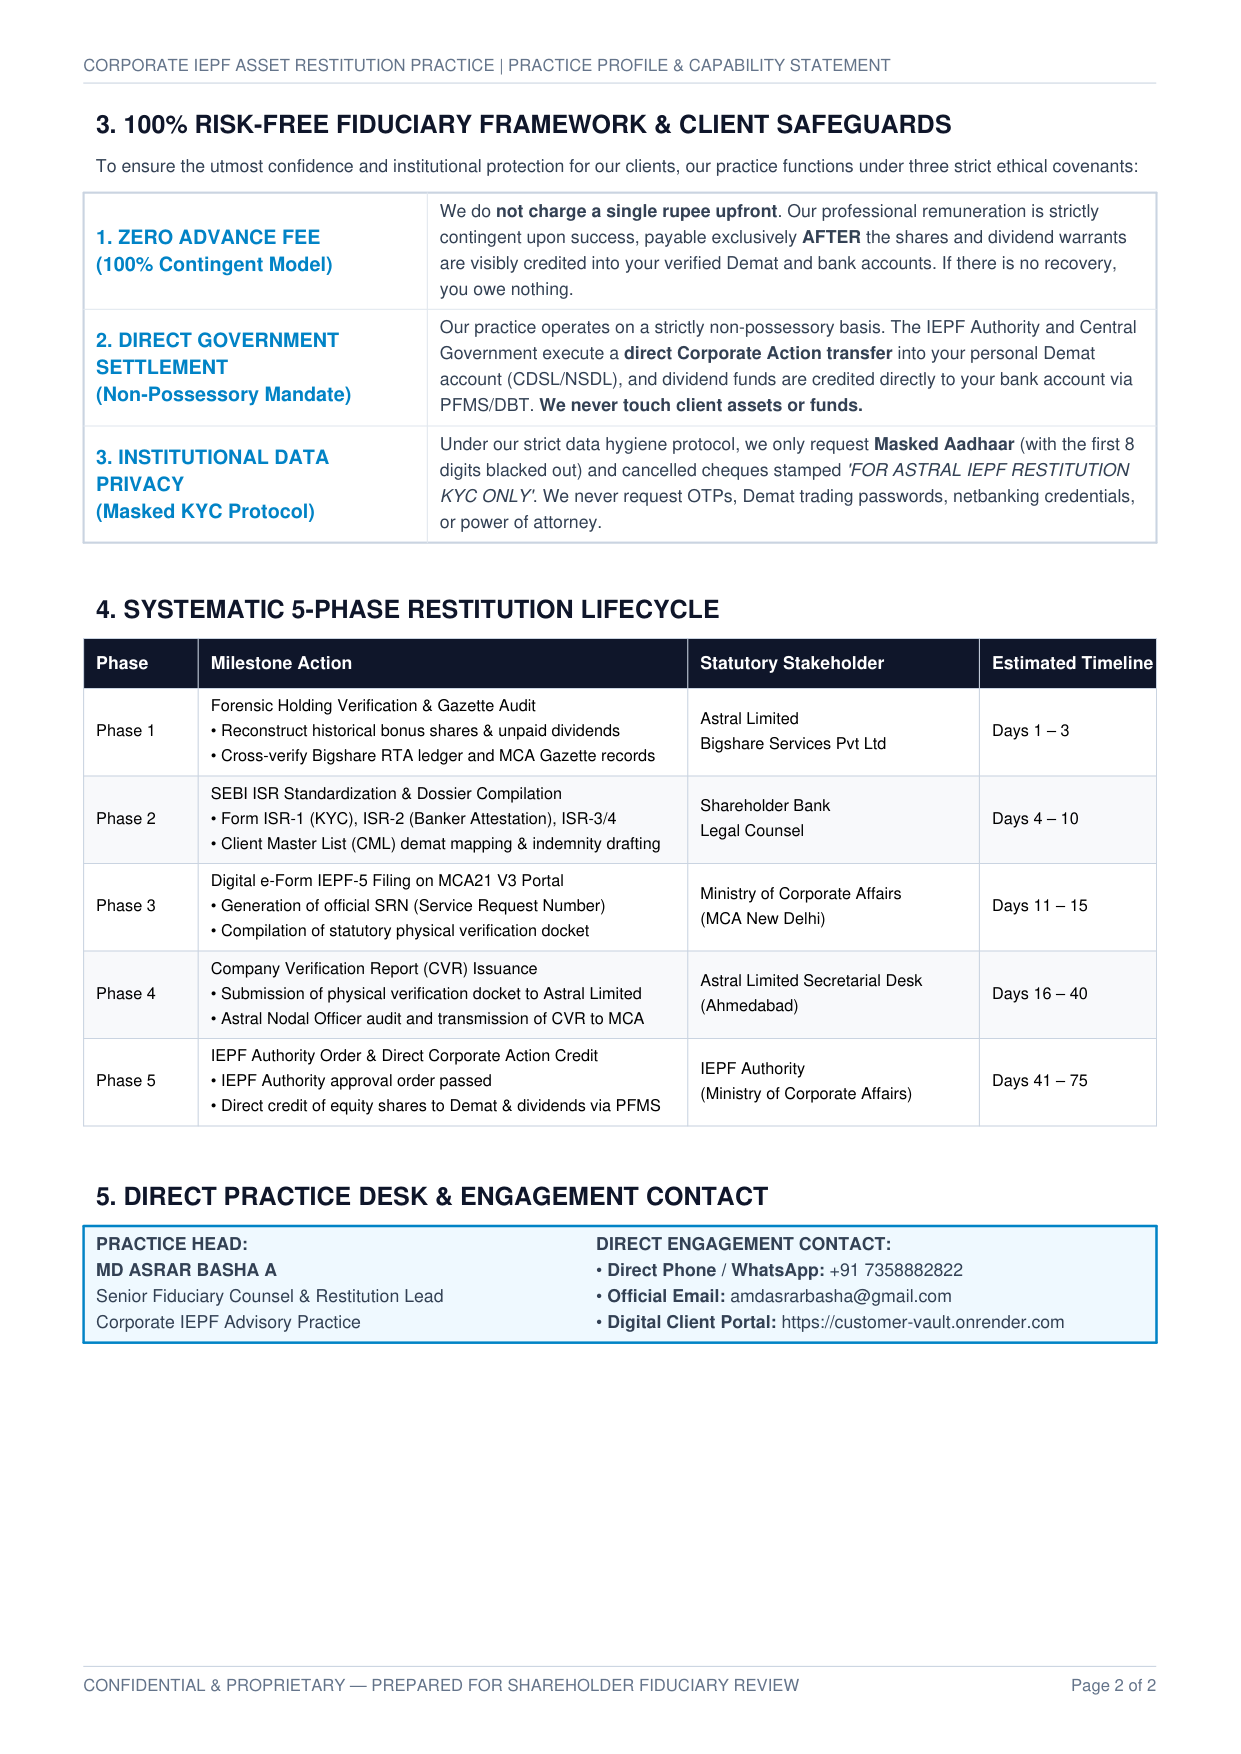
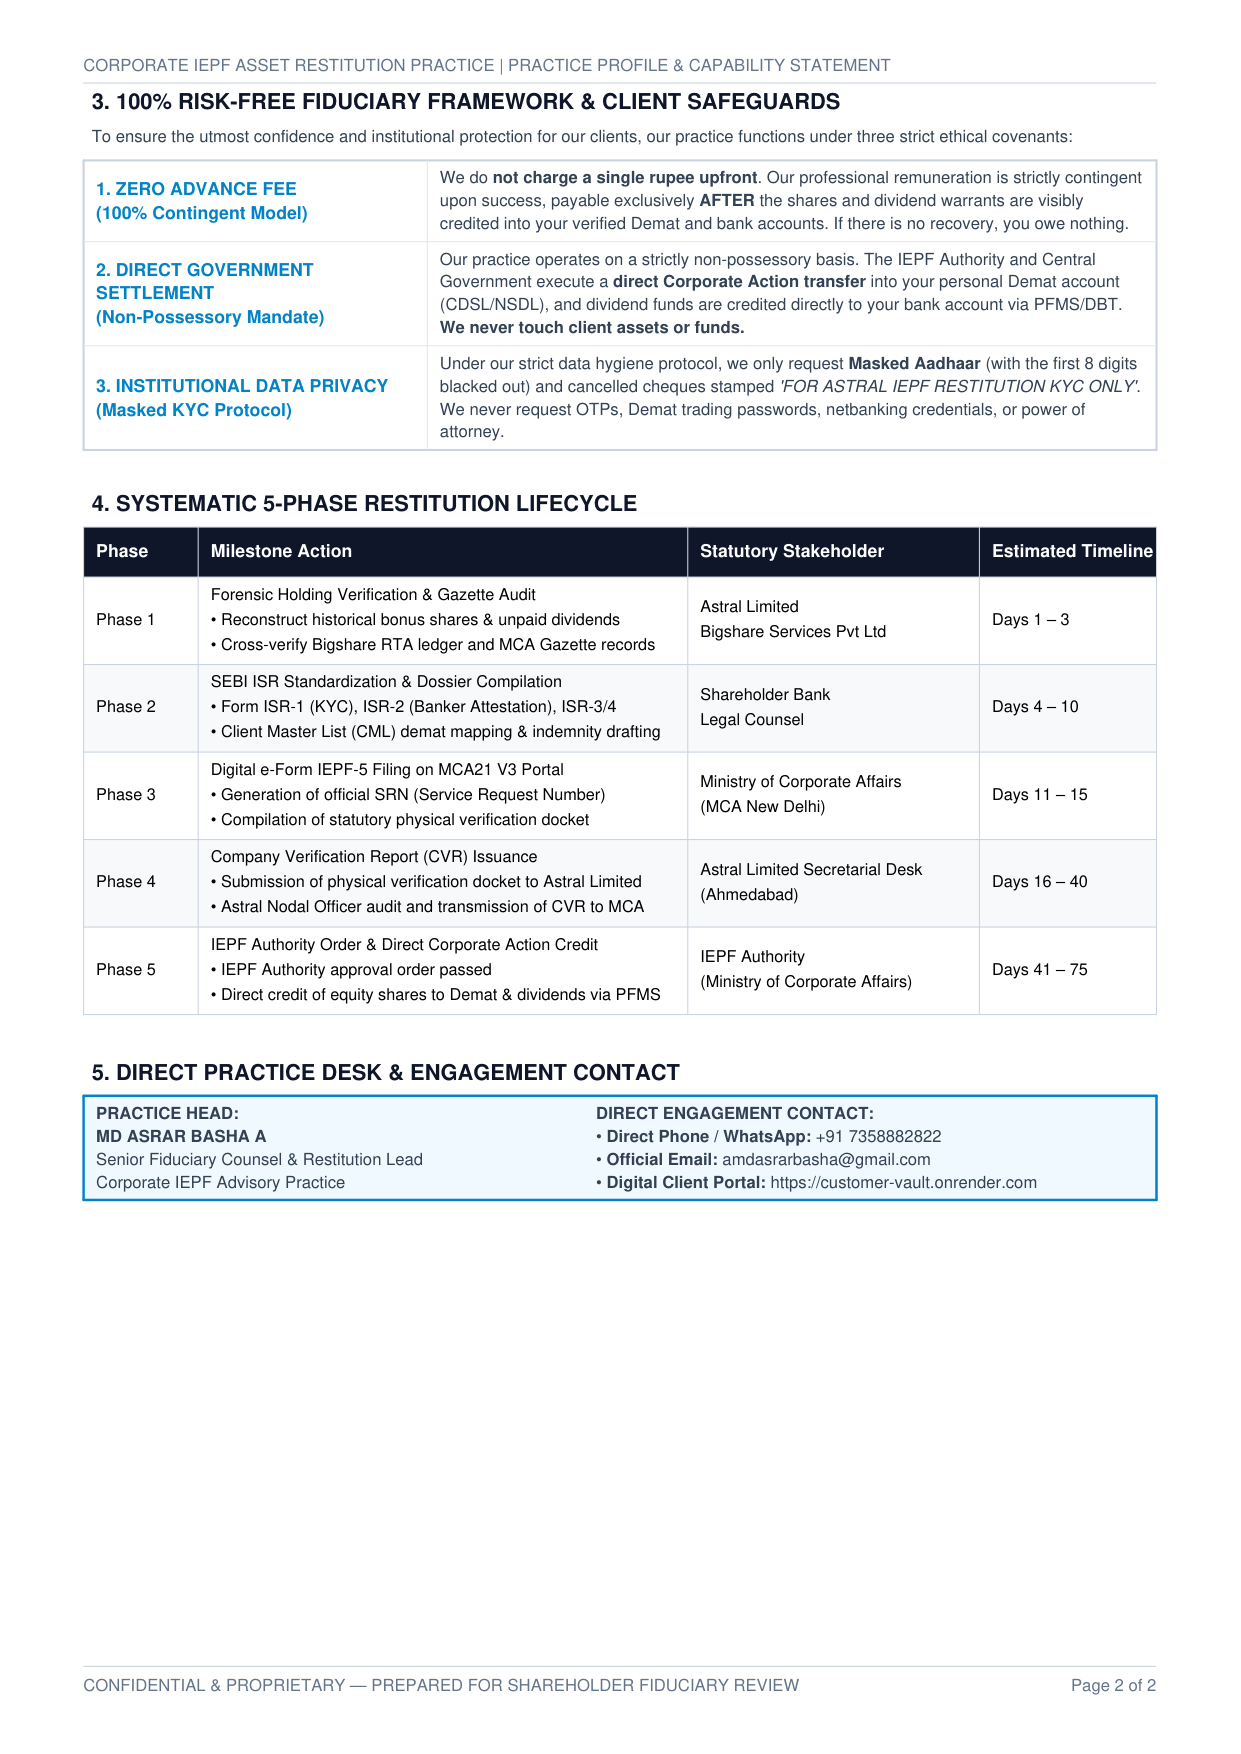
Highlight 50+ clients and 100% success rate in team profile PDF and clean typography

Changed region(s): [[0.0612, 0.0308, 0.9492, 0.7697], [0.7961, 0.6157, 0.8574, 0.6465]]

diff --git a/build_team_profile_pdf.py b/build_team_profile_pdf.py
@@ -56,10 +56,10 @@ def generate_pdf():
     doc = SimpleDocTemplate(
         PDF_PATH,
         pagesize=A4,
-        leftMargin=40,
-        rightMargin=40,
-        topMargin=46,
-        bottomMargin=52
+        leftMargin=38,
+        rightMargin=38,
+        topMargin=36,
+        bottomMargin=38
     )
 
     styles = getSampleStyleSheet()
@@ -67,57 +67,33 @@ def generate_pdf():
     title_style = ParagraphStyle(
         'DocTitle',
         fontName='Helvetica-Bold',
-        fontSize=20,
-        leading=24,
+        fontSize=18,
+        leading=22,
         textColor=colors.HexColor('#0f172a'),
-        spaceAfter=4
-    )
-    subtitle_style = ParagraphStyle(
-        'DocSubtitle',
-        fontName='Helvetica',
-        fontSize=10,
-        leading=14,
-        textColor=colors.HexColor('#0369a1'),
-        spaceAfter=14
+        spaceAfter=2
     )
     sec_heading = ParagraphStyle(
         'SectionHeading',
         fontName='Helvetica-Bold',
-        fontSize=12,
-        leading=16,
+        fontSize=10.5,
+        leading=14,
         textColor=colors.HexColor('#0f172a'),
-        spaceBefore=12,
-        spaceAfter=6
+        spaceBefore=7,
+        spaceAfter=4
     )
     body_style = ParagraphStyle(
         'Body',
         fontName='Helvetica',
-        fontSize=8.5,
-        leading=12.5,
+        fontSize=8,
+        leading=11,
         textColor=colors.HexColor('#334155')
-    )
-    body_bold = ParagraphStyle(
-        'BodyBold',
-        fontName='Helvetica-Bold',
-        fontSize=8.5,
-        leading=12.5,
-        textColor=colors.HexColor('#0f172a')
     )
     role_title = ParagraphStyle(
         'RoleTitle',
         fontName='Helvetica-Bold',
-        fontSize=9.5,
-        leading=13,
+        fontSize=8.5,
+        leading=11.5,
         textColor=colors.HexColor('#0284c7')
-    )
-    bullet_style = ParagraphStyle(
-        'Bullet',
-        fontName='Helvetica',
-        fontSize=8.2,
-        leading=12,
-        textColor=colors.HexColor('#334155'),
-        leftIndent=12,
-        firstLineIndent=-12
     )
 
     story = []
@@ -126,35 +102,64 @@ def generate_pdf():
     # Header Banner Table
     header_data = [
         [
-            Paragraph("<b>CORPORATE IEPF ASSET RESTITUTION PRACTICE</b><br/><font size=8.5 color='#64748b'>Fiduciary Shareholder Advisory & Investor Education and Protection Fund (IEPF) Representation</font>", title_style),
-            Paragraph("<b>PRACTICE CREDENTIALS</b><br/><font size=7.5 color='#0369a1'>Section 124(6) & 125(3)<br/>Companies Act, 2013<br/>MCA / RTA Restitution</font>", ParagraphStyle('RHead', fontName='Helvetica', fontSize=8, leading=11, alignment=2, textColor=colors.HexColor('#0f172a')))
+            Paragraph("<b>CORPORATE IEPF ASSET RESTITUTION PRACTICE</b><br/><font size=8 color='#64748b'>Fiduciary Shareholder Advisory & Investor Education and Protection Fund (IEPF) Representation</font>", title_style),
+            Paragraph("<b>PRACTICE CREDENTIALS</b><br/><font size=7 color='#0369a1'>Section 124(6) & 125(3)<br/>Companies Act, 2013<br/>MCA / RTA Restitution</font>", ParagraphStyle('RHead', fontName='Helvetica', fontSize=7.5, leading=10, alignment=2, textColor=colors.HexColor('#0f172a')))
         ]
     ]
-    t_hdr = Table(header_data, colWidths=[380, 135])
+    t_hdr = Table(header_data, colWidths=[385, 134])
     t_hdr.setStyle(TableStyle([
         ('VALIGN', (0,0), (-1,-1), 'MIDDLE'),
-        ('BOTTOMPADDING', (0,0), (-1,-1), 6),
+        ('BOTTOMPADDING', (0,0), (-1,-1), 2),
     ]))
     story.append(t_hdr)
-    story.append(HRFlowable(width="100%", thickness=1.5, color=colors.HexColor('#0284c7'), spaceAfter=10))
+    story.append(HRFlowable(width="100%", thickness=1.2, color=colors.HexColor('#0284c7'), spaceAfter=5))
 
     # Executive Summary Card
     summary_text = (
         "<b>Executive Overview:</b> Our specialized corporate practice operates exclusively at the intersection of "
-        "<b>Corporate Law, SEBI Investor Protection Regulations, and MCA Statutory Governance</b>. We provide full-lifecycle "
-        "fiduciary representation to High-Net-Worth Individuals (HNIs), chartered accountants, medical practitioners, family trusts, "
-        "and corporate bodies whose long-term equity shares and accumulated dividend assets have matured past the 7-year "
-        "unclaimed period and statutorily transitioned into the custody of the <b>Investor Education and Protection Fund (IEPF) "
-        "Authority, Ministry of Corporate Affairs (Government of India)</b>. We maintain a 100% contingent, risk-free mandate."
+        "<b>Corporate Law, SEBI Investor Protection Regulations, and MCA Statutory Governance</b>. Having successfully executed "
+        "<b>over 50+ shareholder restitutions with a verified 100% success rate</b> (recovering Rs. 30+ Crores in transferred equity "
+        "assets and cumulative unpaid dividends), we provide full-lifecycle fiduciary representation to High-Net-Worth Individuals (HNIs), "
+        "chartered accountants, medical practitioners, family trusts, and corporate bodies whose long-term equity shares have statutorily "
+        "transitioned into the custody of the <b>Investor Education and Protection Fund (IEPF) Authority, Ministry of Corporate Affairs "
+        "(Government of India)</b>. We operate strictly on a 100% contingent, zero-risk mandate."
     )
-    t_sum = Table([[Paragraph(summary_text, body_style)]], colWidths=[515])
+    t_sum = Table([[Paragraph(summary_text, body_style)]], colWidths=[519])
     t_sum.setStyle(TableStyle([
         ('BACKGROUND', (0,0), (-1,-1), colors.HexColor('#f8fafc')),
         ('BOX', (0,0), (-1,-1), 1, colors.HexColor('#cbd5e1')),
-        ('PADDING', (0,0), (-1,-1), 10),
+        ('PADDING', (0,0), (-1,-1), 6),
     ]))
     story.append(t_sum)
-    story.append(Spacer(1, 10))
+    story.append(Spacer(1, 4))
+
+    # Track Record Metrics Banner
+    stat_style = ParagraphStyle(
+        'StatBox',
+        fontName='Helvetica',
+        fontSize=7.5,
+        leading=10,
+        alignment=1,
+        textColor=colors.HexColor('#0f172a')
+    )
+    stats_data = [
+        [
+            Paragraph("<font size=12 color='#0284c7'><b>50+</b></font><br/><b>RESTITUTIONS DONE</b><br/><font size=6.5 color='#64748b'>HNIs, CAs & Doctors</font>", stat_style),
+            Paragraph("<font size=12 color='#15803d'><b>100%</b></font><br/><b>SUCCESS RATE</b><br/><font size=6.5 color='#15803d'>Zero Rejections / Zero Memos</font>", stat_style),
+            Paragraph("<font size=12 color='#0f172a'><b>Rs. 30+ Cr</b></font><br/><b>ASSETS UNLOCKED</b><br/><font size=6.5 color='#64748b'>Astral & Tier-1 Equities</font>", stat_style),
+            Paragraph("<font size=12 color='#b45309'><b>Rs. 0 ADVANCE</b></font><br/><b>100% CONTINGENT</b><br/><font size=6.5 color='#b45309'>Payable Post Demat Credit</font>", stat_style),
+        ]
+    ]
+    t_stats = Table(stats_data, colWidths=[129, 131, 129, 130])
+    t_stats.setStyle(TableStyle([
+        ('BACKGROUND', (0,0), (-1,-1), colors.HexColor('#f1f5f9')),
+        ('BOX', (0,0), (-1,-1), 1, colors.HexColor('#94a3b8')),
+        ('INNERGRID', (0,0), (-1,-1), 0.5, colors.HexColor('#cbd5e1')),
+        ('PADDING', (0,0), (-1,-1), 4),
+        ('VALIGN', (0,0), (-1,-1), 'MIDDLE'),
+    ]))
+    story.append(t_stats)
+    story.append(Spacer(1, 4))
 
     # Core Leadership & Multi-Disciplinary Practice Team
     story.append(Paragraph("1. PRACTICE LEADERSHIP & MULTI-DISCIPLINARY STRUCTURE", sec_heading))
@@ -163,6 +168,7 @@ def generate_pdf():
         [
             Paragraph("<b>MD ASRAR BASHA A</b><br/><font color='#0284c7'><b>Practice Head & Lead Fiduciary Counsel</b></font>", role_title),
             Paragraph(
+                "• Successfully spearheaded <b>50+ corporate and HNI shareholder restitutions with a 100% success rate</b>.<br/>"
                 "• Directs strategic statutory interventions, high-value corporate mandates, and client representation before the IEPF Authority.<br/>"
                 "• Formulates legal restitution roadmaps across Section 124(6), Section 125(3), and Rule 7 of the IEPF Rules, 2016.<br/>"
                 "• Direct liaison with Astral Limited Corporate Legal Desk, Bigshare Services Mumbai, and Nodal Officers at MCA New Delhi.<br/>"
@@ -199,36 +205,36 @@ def generate_pdf():
         ]
     ]
 
-    t_team = Table(team_data, colWidths=[165, 350])
+    t_team = Table(team_data, colWidths=[165, 354])
     t_team.setStyle(TableStyle([
         ('BACKGROUND', (0,0), (-1,-1), colors.HexColor('#ffffff')),
         ('BOX', (0,0), (-1,-1), 1, colors.HexColor('#e2e8f0')),
         ('INNERGRID', (0,0), (-1,-1), 0.5, colors.HexColor('#e2e8f0')),
-        ('PADDING', (0,0), (-1,-1), 7),
+        ('PADDING', (0,0), (-1,-1), 4.5),
         ('VALIGN', (0,0), (-1,-1), 'TOP'),
     ]))
     story.append(t_team)
-    story.append(Spacer(1, 10))
+    story.append(Spacer(1, 4))
 
     # Core Practice Capabilities Box
     story.append(Paragraph("2. CORE PRACTICE CAPABILITIES & COMPLEX RESOLUTIONS", sec_heading))
 
     cap_data = [
         [
-            Paragraph("<b>Dematerialization & Legacy Physical Folio Conversion:</b> Full conversion of physical share certificates into Demat format via SEBI Form ISR-4.", body_style),
-            Paragraph("<b>Bank Signature Variation Rectification:</b> Official Form ISR-2 execution with Bank Manager seal, employee code, and CBS verification.", body_style)
+            Paragraph("<b>Dematerialization & Physical Conversion:</b> Full conversion of physical certificates into Demat via SEBI Form ISR-4.", body_style),
+            Paragraph("<b>Bank Signature Variation Rectification:</b> Official Form ISR-2 execution with Bank Manager seal, employee code & CBS stamp.", body_style)
         ],
         [
-            Paragraph("<b>Transmission & Legal Heir Succession:</b> Execution of Succession Certificates, Probate of Will, Legal Heirship affidavits, and Family NOCs.", body_style),
-            Paragraph("<b>Gazette Name & Address Reconciliations:</b> Rectification of spelling variations and address shifts via state gazette notifications and notarized affidavits.", body_style)
+            Paragraph("<b>Transmission & Legal Heir Succession:</b> Succession Certificates, Probate of Will, Legal Heir affidavits & Family NOCs.", body_style),
+            Paragraph("<b>Gazette Name & Address Reconciliations:</b> Rectification of name variations & address shifts via gazette notifications & affidavits.", body_style)
         ]
     ]
-    t_cap = Table(cap_data, colWidths=[255, 260])
+    t_cap = Table(cap_data, colWidths=[258, 261])
     t_cap.setStyle(TableStyle([
         ('BACKGROUND', (0,0), (-1,-1), colors.HexColor('#f1f5f9')),
         ('BOX', (0,0), (-1,-1), 1, colors.HexColor('#cbd5e1')),
         ('INNERGRID', (0,0), (-1,-1), 0.5, colors.HexColor('#cbd5e1')),
-        ('PADDING', (0,0), (-1,-1), 6),
+        ('PADDING', (0,0), (-1,-1), 3.5),
         ('VALIGN', (0,0), (-1,-1), 'MIDDLE'),
     ]))
     story.append(t_cap)
